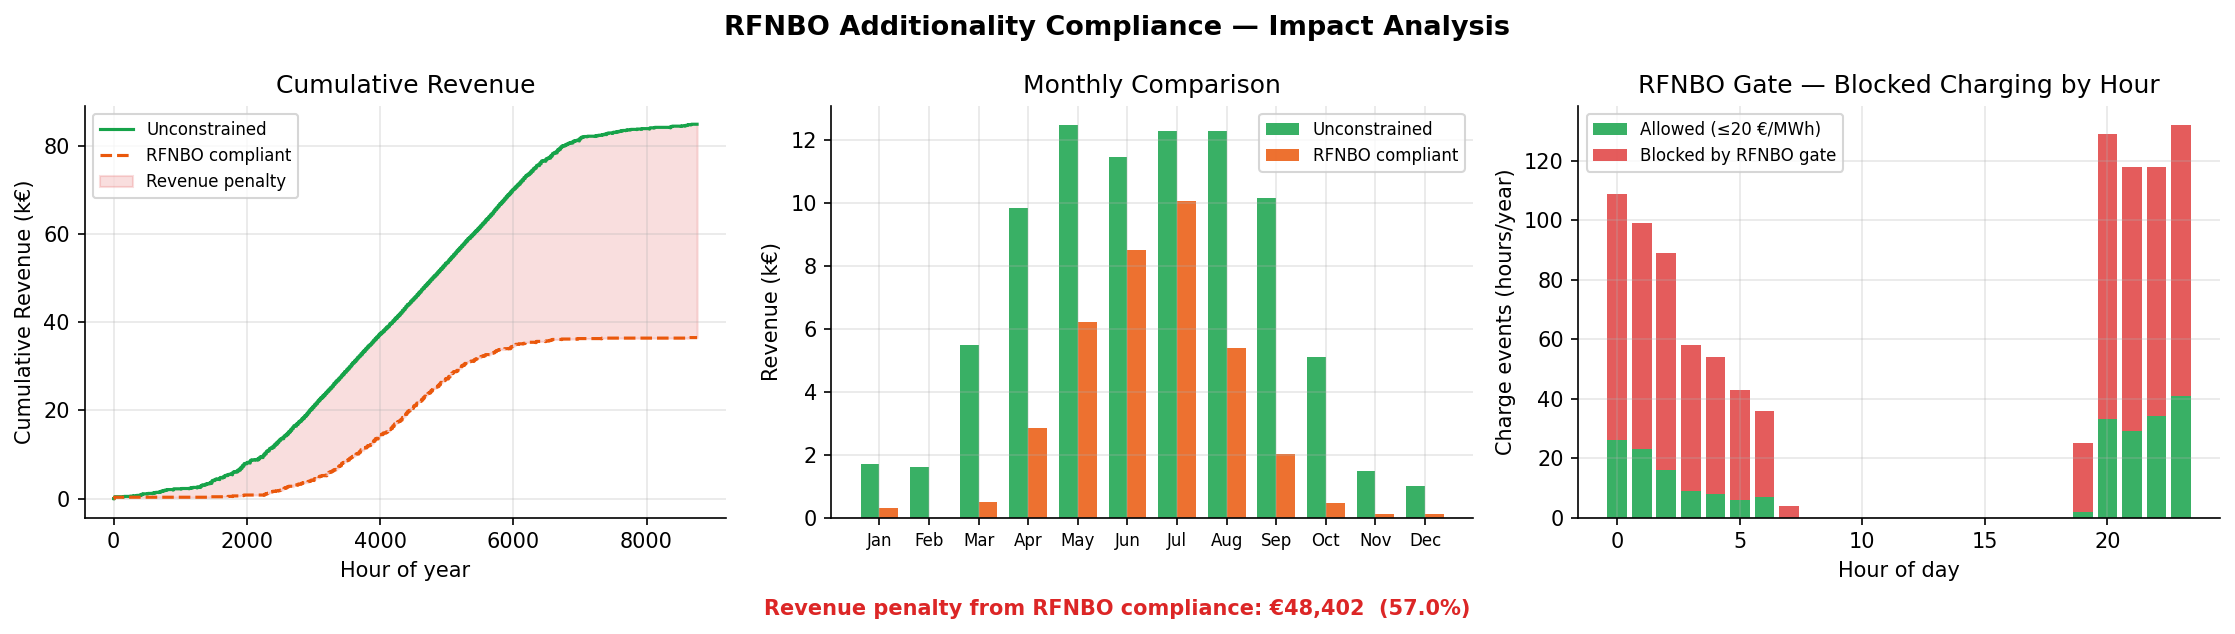
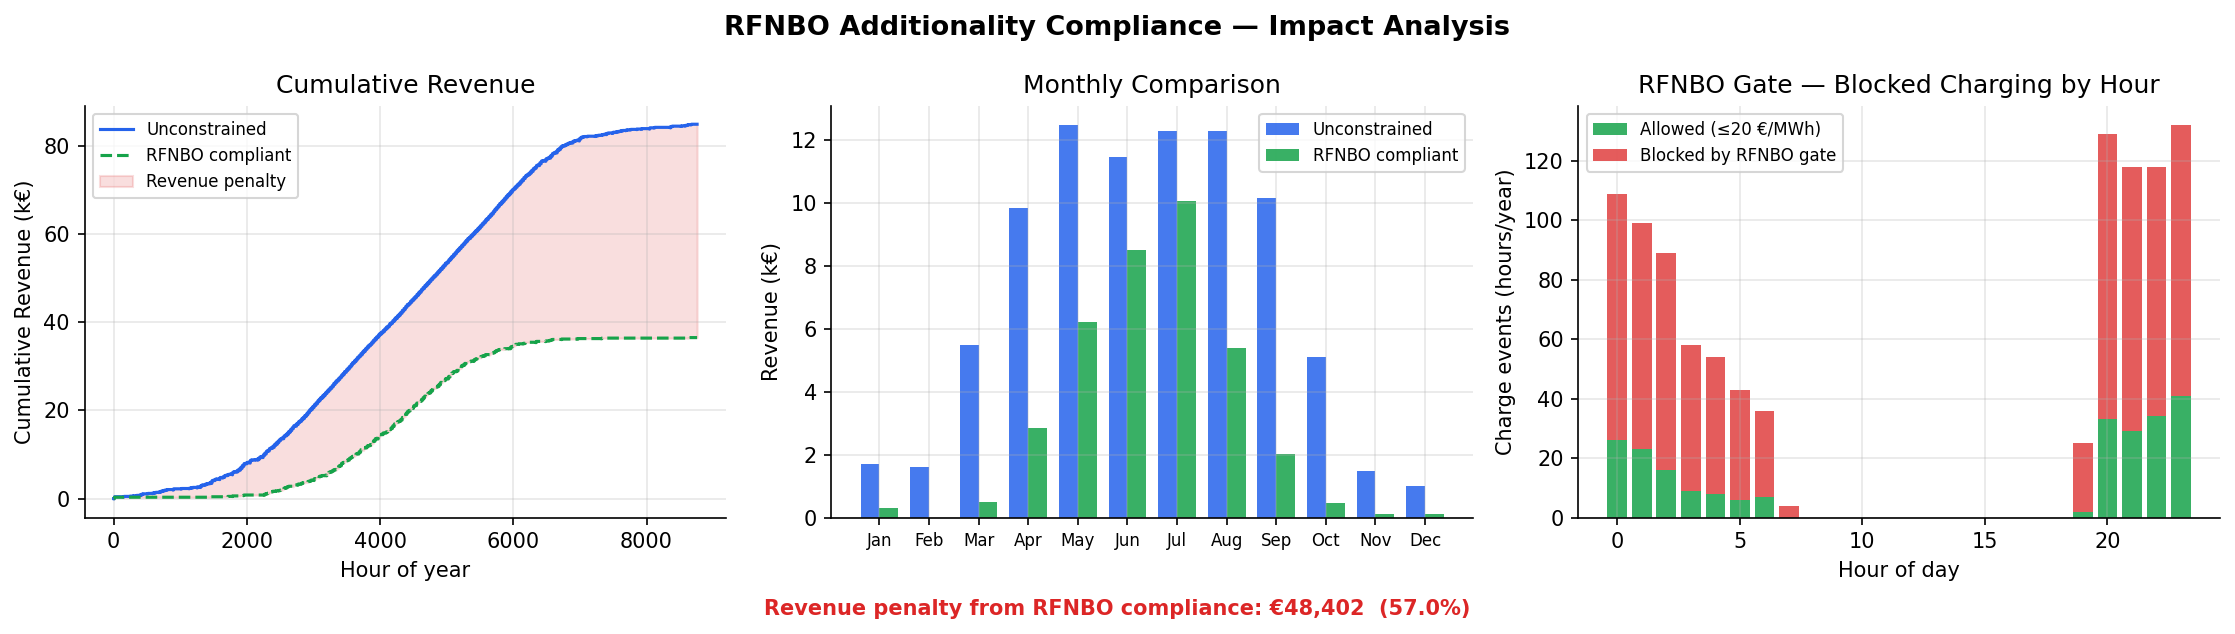
Update RFNBO plot colors to green

diff --git a/scripts/generate_plots.py b/scripts/generate_plots.py
@@ -207,8 +207,8 @@ fig.suptitle("RFNBO Additionality Compliance — Impact Analysis", fontsize=13, 
 
 # Panel 1: Cumulative revenue comparison
 ax = axes[0]
-ax.plot(hours, cumrev_std   / 1000, color=GREEN, linewidth=1.5, label="Unconstrained")
-ax.plot(hours, cumrev_rfnbo / 1000, color=ORANGE, linewidth=1.5, linestyle="--", label="RFNBO compliant")
+ax.plot(hours, cumrev_std   / 1000, color=BLUE,  linewidth=1.5, label="Unconstrained")
+ax.plot(hours, cumrev_rfnbo / 1000, color=GREEN, linewidth=1.5, linestyle="--", label="RFNBO compliant")
 ax.fill_between(hours,
                 cumrev_std / 1000,
                 cumrev_rfnbo / 1000,
@@ -222,8 +222,8 @@ ax.legend(fontsize=8)
 ax = axes[1]
 x = np.arange(len(month_names))
 w = 0.38
-ax.bar(x - w/2, [r/1000 for r in monthly_std],   width=w, color=GREEN,  alpha=0.85, label="Unconstrained")
-ax.bar(x + w/2, [r/1000 for r in monthly_rfnbo],  width=w, color=ORANGE, alpha=0.85, label="RFNBO compliant")
+ax.bar(x - w/2, [r/1000 for r in monthly_std],    width=w, color=BLUE,  alpha=0.85, label="Unconstrained")
+ax.bar(x + w/2, [r/1000 for r in monthly_rfnbo],  width=w, color=GREEN, alpha=0.85, label="RFNBO compliant")
 ax.set_xticks(x)
 ax.set_xticklabels(month_names, fontsize=8)
 ax.set_ylabel("Revenue (k€)")
